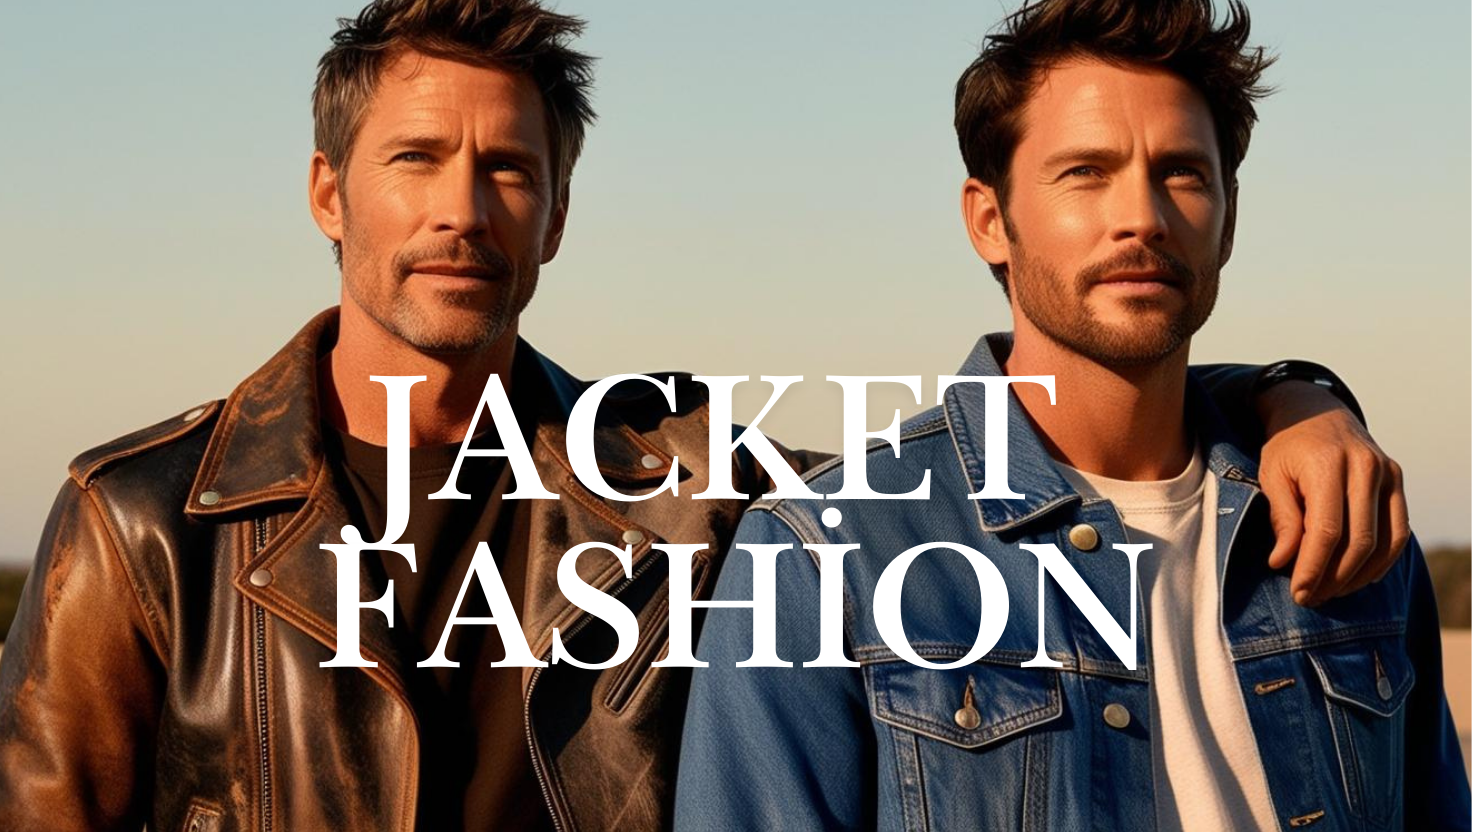
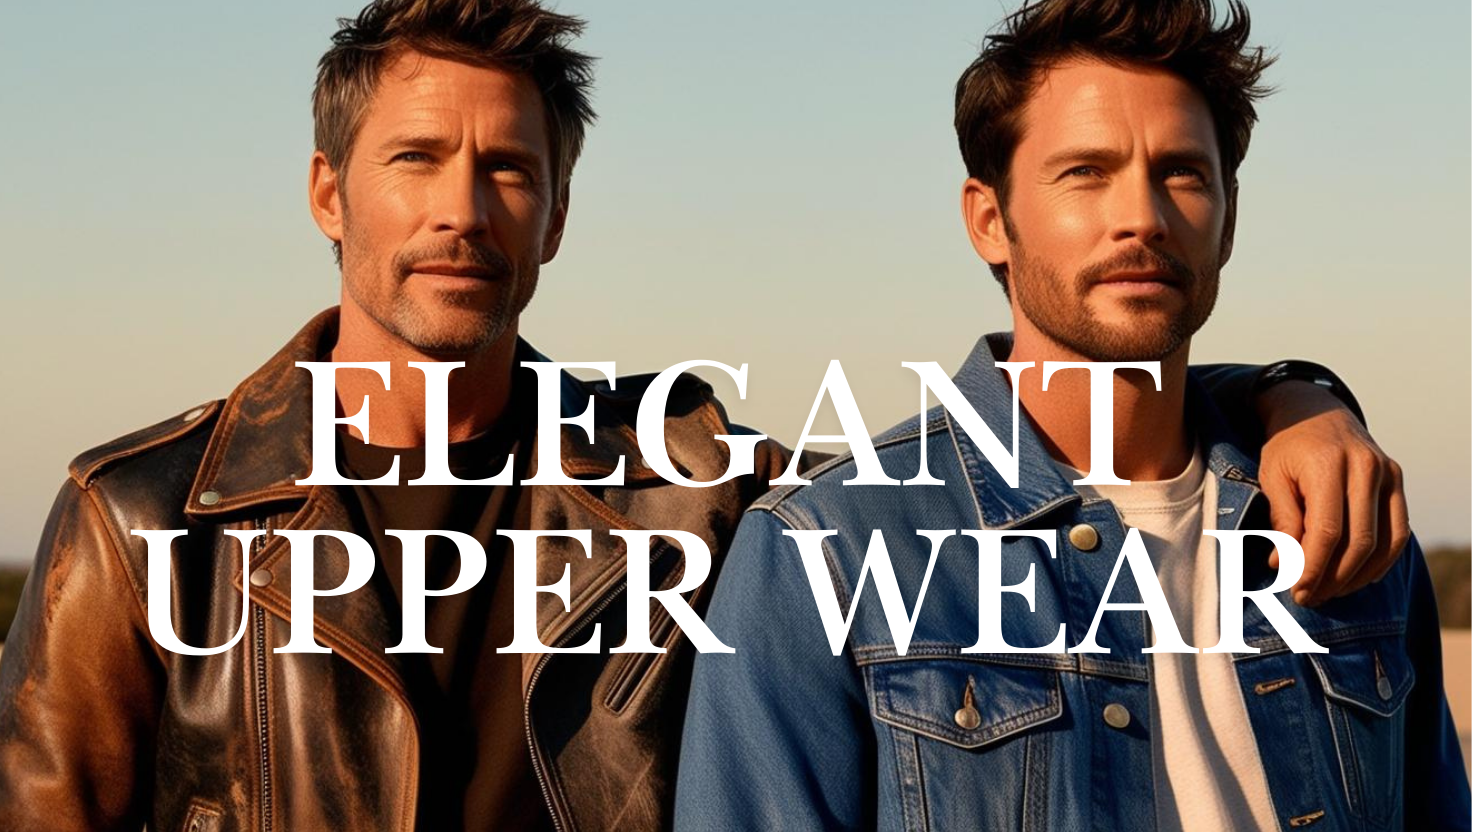
media kısmı düzeldi resimler eklendi

Changed region(s): [[0.0938, 0.4375, 0.9062, 0.8125]]

diff --git a/indexStyle.css b/indexStyle.css
@@ -54,14 +54,13 @@ nav .menu{
  position: relative;
 }
 .menu ul a{
-   text-decoration: none;
+  text-decoration: none;
   color: #cab796;
   padding: 10px 18px;
   border-radius: 6px;
   transition: all 0.3s ease;
   font-size: 20px;
   font-weight: 500;
-
 }
 
 .menu ul a:hover:before{
@@ -82,8 +81,8 @@ nav .menu{
   transform: translateY(-2px);
 }
 nav label.button {
-    color:#31344b;
-    font-size: 18px;
+    color:#cab796;
+    font-size: 25px;
     cursor: pointer;
     display: none;
 
@@ -99,15 +98,17 @@ nav label.cancel{
    display: none;
 
 }
-@media(max-width:780px){
+
+
+@media(max-width:880px){
   
     .menu ul{
         display:block;
         position: fixed;
         top: 0;
-        /* left: -100%; */
-        left: 0;
-        width: 100%;
+        left: -100%;
+        
+        width: 100% ;
         max-width: 400%;
         padding: 45px;
         height: 100vh;
@@ -118,12 +119,18 @@ nav label.cancel{
          transition: all 0.3s ease;
          
     }
+    .menu .divider {
+  width: 1px;
+  height: 20px;
+  background-color: #222;
+}
     .menu ul a{
         display: block;
        font-size: 23px;
        width: 100%;
        max-width: 100%;
-       background: #ecf0f3;
+       background: #f1d39e;
+       color: #222;
        padding:10px 12px ;
        box-shadow: inset -3px -3px 7px #ffffff,
                     inset 3px 3px 5px #0c0c0c;
@@ -138,11 +145,11 @@ nav label.cancel{
     }
     .menu ul a:hover::before{
         box-shadow: none;
-
+        
     }
     nav label.bars{
         display: block;
-
+        background: #222;
     }
     #check:checked ~ label.bars{
       display: none;
@@ -158,78 +165,44 @@ nav label.cancel{
 }
 
 .product{
-  position: relative;
-  display: inline-block;
+   list-style: none;
+  display: flex;
+  align-items: center;
+  gap: 24px;
 }
 
-/*
-.Product-drowdown_menu strong {
-  margin-bottom: 5px;
-  box-shadow: none;
-  font-size: 18px;
-  color: #0c0b0b;
-}
 
-*/
 
 
 .Product_menu {
-  display: none;
+display: none;
   position: absolute;
   top: 100%;
   left: 0;
   background-color: #222;
   padding: 20px;
   width: max-content;
-  box-shadow: 0 4px 8px rgba(245, 5, 125, 0.1);
+  box-shadow: inset -3px -3px 7px #5a5a5a, inset 3px 3px 5px #3b3b3b;
   z-index: 999;
-  flex-direction: row;
-  gap: 30px;
+  flex-direction: column;
+  gap: 10px;
+  list-style: none;
 }
 
 .Product-drowdown_menu {
   display: flex;
   flex-direction: column;
   gap: 8px;
+   
 }
 
-/*  Hover olayı: kullanıcı .product <li> üzerine gelince menüyü göster (sadece masaüstü için) */
+/*    product media */
 @media (min-width: 781px) {
   .product:hover .Product_menu {
-    display: flex;
-  }
-}
+    display: flex !important;
+    flex-direction: row;
+    gap: 30px;
 
-
-
-@media (max-width: 780px) {
-  .Product_menu {
-    display: none;
-    position: static;
-    flex-direction: column;
-    gap: 10px;
-    background-color: #ecf0f3;
-    padding: 10px;
-    box-shadow: none;
-
-    max-height: calc(100vh - 60px);  /* Navbar başlığı/üst boşluk hesabı */
-    overflow-y: auto;               /* Burayı ekleyin */
-  }
-
-  .product.open .Product_menu {
-    display: flex;
-  }
-
-  .Product-drowdown_menu strong {
-    font-size: 18px;
-    color: #111;
-  }
-
-  .Product-drowdown_menu a {
-    font-size: 16px;
-    color: #333;
-    text-decoration: none;
-    padding-left: 10px;
   }
 }
 
@@ -246,7 +219,7 @@ nav label.cancel{
 }
 
 .info-box {
-  background: #fff;
+  background: #222;
   border-radius: 8px;
   box-shadow: 0 4px 10px rgba(0,0,0,0.1);
   padding: 20px;
@@ -267,12 +240,12 @@ nav label.cancel{
 .info-box h3 {
   font-size: 18px;
   margin-bottom: 10px;
-  color: #1e2a50;
+  color: #c9cacc;
 }
 
 .info-box p {
   font-size: 14px;
-  color: #555;
+  color: white;
 }
 
 /*        footer       */

diff --git a/index.html b/index.html
@@ -61,21 +61,10 @@
                     
                     <div class="Product_menu">
                         <div class="Product-drowdown_menu">
-                            
-                            <a href="">Jacket</a>  
-                            
-                        </div>
-
-                        <div class="Product-drowdown_menu">
-                            
+                            <a href="">Upper wear</a>  
                             <a href="">Trousers</a>
-                            
-                        </div>
-
-                        <div class="Product-drowdown_menu">
                             <a href="">Shoes</a>
-                           
-                        </div>
+                           </div>
                     </div>
                 </li>  
 
@@ -91,13 +80,17 @@
     
     </nav>
 <br>
-  <br>
+  
 
     <!--                                 büyük resim                           -->
 
   
   
-    
+        <div class=" position-relative text-white text-center">
+              <a href="product.html"><img src="assets/first banner.png" style="height: 10; width: 100%; box-shadow: -3px -3px 7px #c5b69c, 3px 3px 5px #cab796; "></a>
+           </div>
+           <br>
+           
          <div class=" position-relative text-white text-center">
               <a href="product.html"><img src="assets/blac style kbanner.png" class="img-fluid w-100" alt="Banner 1"></a>
          </div>
@@ -110,10 +103,15 @@
          <div class=" position-relative text-white text-center">
             <a href="product.html"><img src="assets/Aes tHE TIC.png" class="img-fluid w-100" alt="Ürün Resmi"></a>
          </div>
+         <br>
+         <div class=" position-relative text-white text-center">
+            <a href="product.html"><img src="assets/tousers.png" class="img-fluid w-100" alt="Ürün Resmi"></a>
+         </div>
           <br>
          <div class=" position-relative text-white text-center">
             <a href="product.html"><img src="assets/Organized &Optimized.png" class="img-fluid w-100" alt="Ürün Resmi"></a>
          </div>
+         
    
 
 

diff --git a/register.html b/register.html
@@ -27,7 +27,7 @@
 
 <body>
     
-    <nav>
+   <nav>
         
         <div class="menu">
             <input type="checkbox" id="check">
@@ -43,21 +43,10 @@
                     
                     <div class="Product_menu">
                         <div class="Product-drowdown_menu">
-                            
-                            <a href="">Jacket</a>  
-                            
-                        </div>
-
-                        <div class="Product-drowdown_menu">
-                            
+                            <a href="">Upper wear</a>  
                             <a href="">Trousers</a>
-                            
-                        </div>
-
-                        <div class="Product-drowdown_menu">
                             <a href="">Shoes</a>
-                           
-                        </div>
+                           </div>
                     </div>
                 </li>  
 
@@ -71,6 +60,7 @@
             <label class="button bars" for="check"><i class="fas fa-bars"></i></label>
         </div>
     
+    </nav>
 
     
     <!-- Bu sayfada form işlemleri yapılacaaak  -->

diff --git a/product.html b/product.html
@@ -47,21 +47,10 @@
                     
                     <div class="Product_menu">
                         <div class="Product-drowdown_menu">
-                            
-                            <a href="">Jacket</a>  
-                            
-                        </div>
-
-                        <div class="Product-drowdown_menu">
-                            
+                            <a href="">Upper wear</a>  
                             <a href="">Trousers</a>
-                            
-                        </div>
-
-                        <div class="Product-drowdown_menu">
                             <a href="">Shoes</a>
-                           
-                        </div>
+                           </div>
                     </div>
                 </li>  
 
@@ -76,7 +65,6 @@
         </div>
     
     </nav>
-
     <br>
 
  
